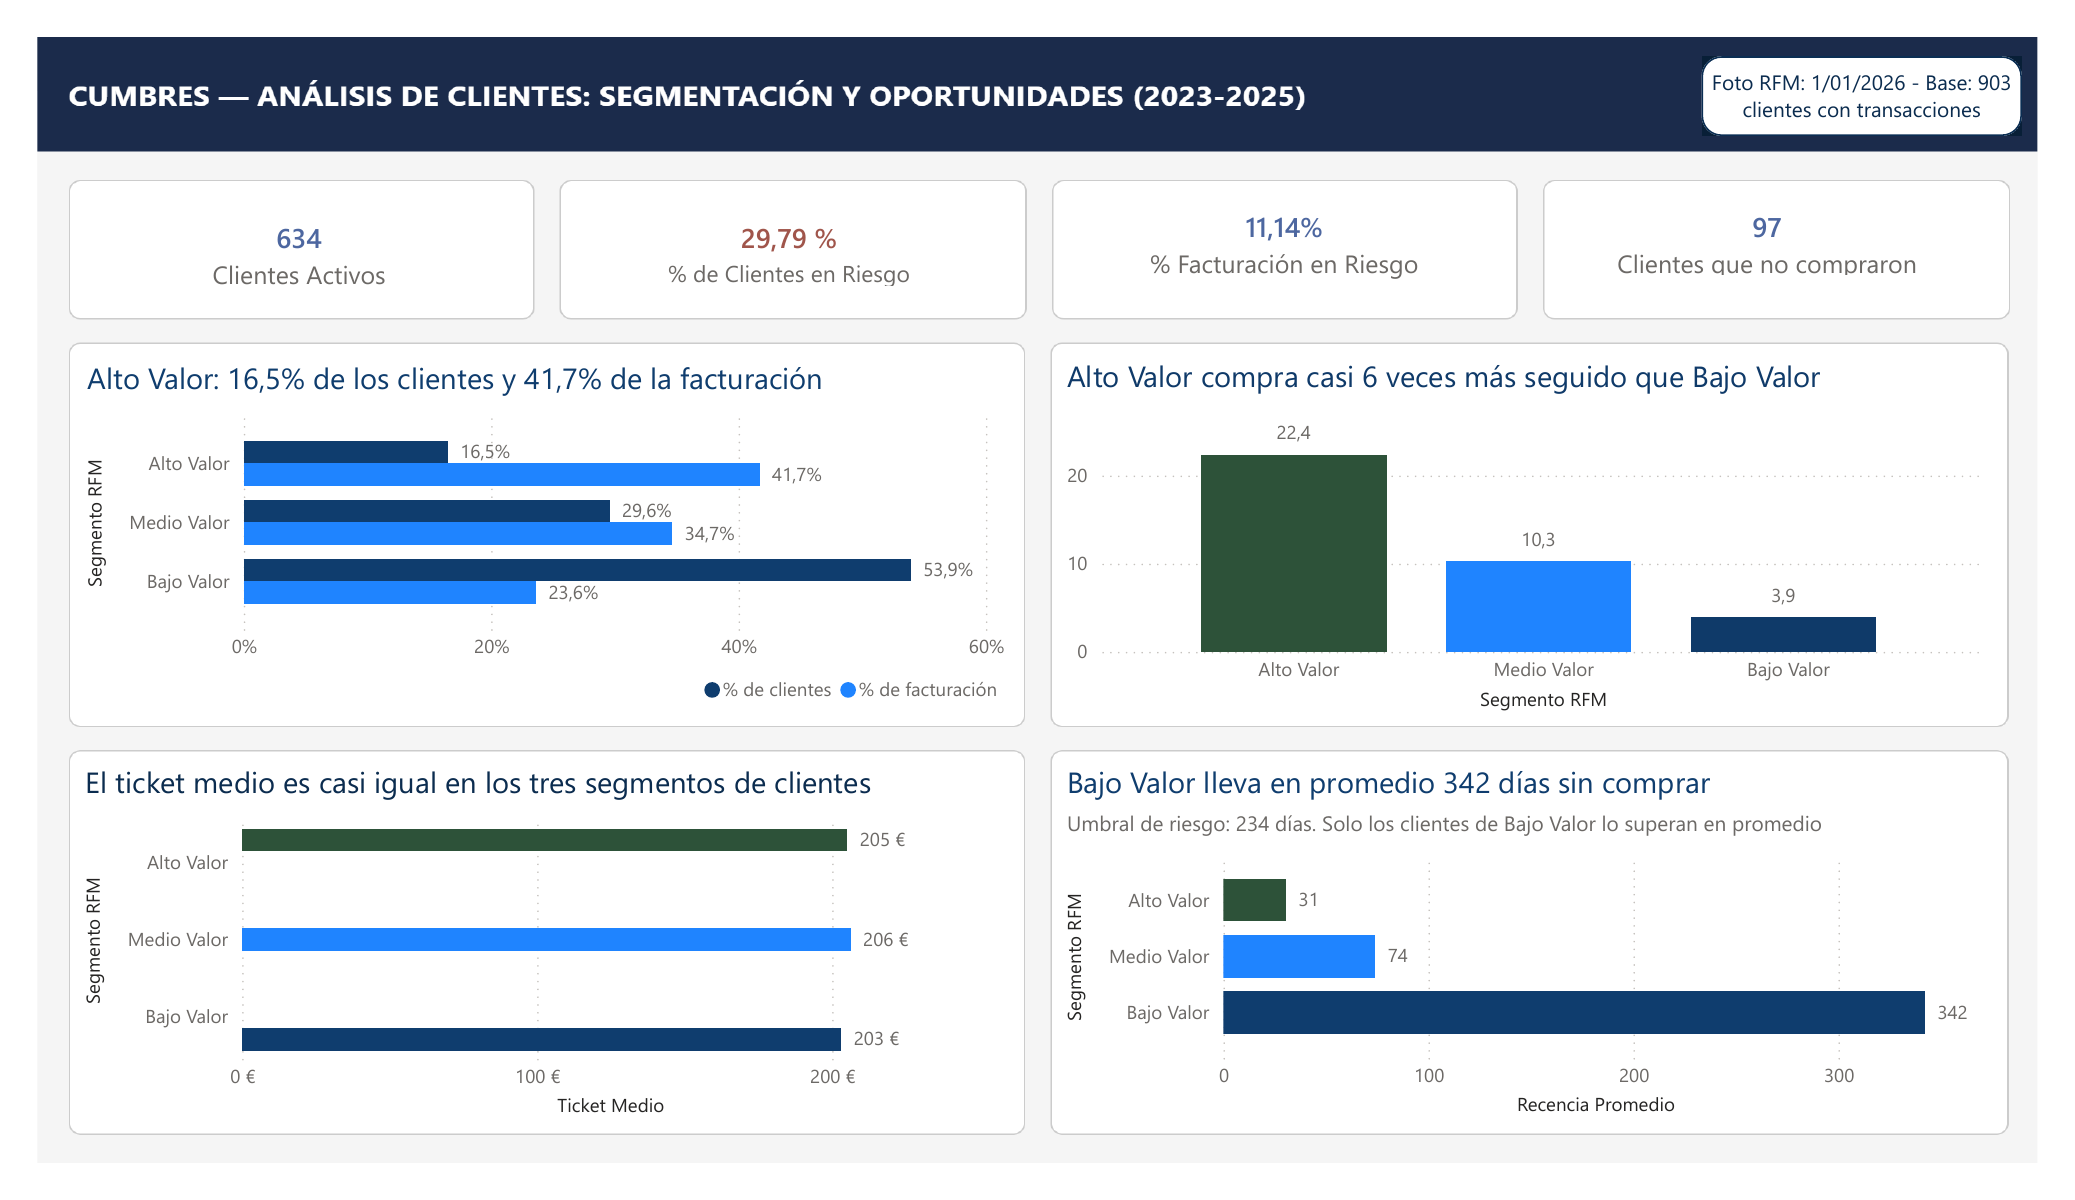
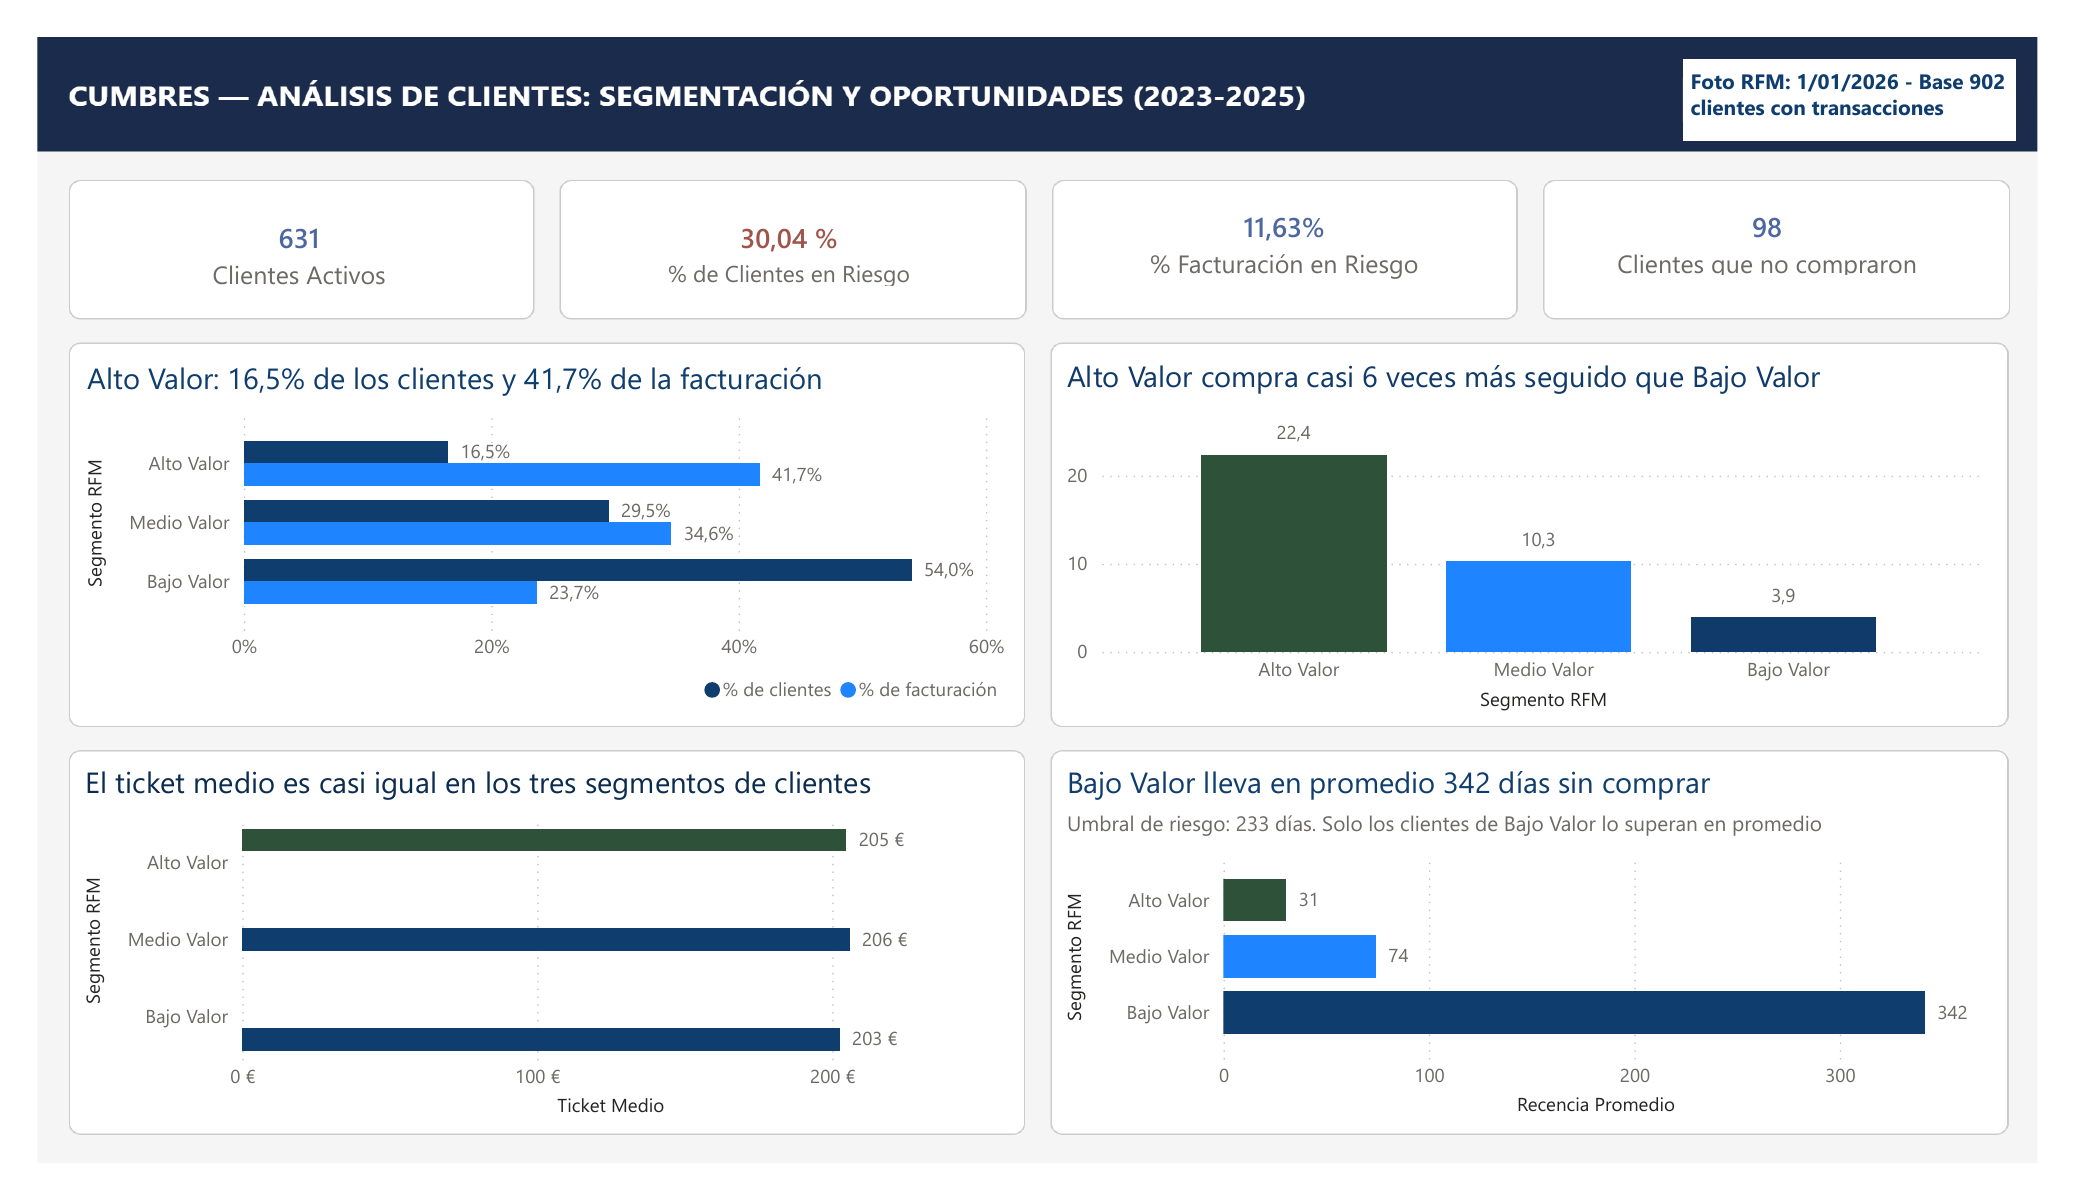
Actualiza la tarjeta de Cumbres con las cifras corregidas

diff --git a/index.html b/index.html
@@ -109,7 +109,7 @@
               <h3>Customer Analytics · Cumbres Outdoor &amp; Deportes</h3>
               <p>Análisis de clientes de un retailer deportivo ficticio, con datos sintéticos que simulan los registros de un ERP y un CRM, período <span class="nowrap">2023-2025</span>.</p>
               <p class="question"><span class="question__label">Pregunta de negocio</span>¿Cómo se distribuye el valor de la cartera de clientes y a qué clientes inactivos conviene contactar primero?</p>
-              <p class="finding"><span class="finding__label">Hallazgo clave</span>81 de los 269 clientes en riesgo concentran el 62,7% de la facturación histórica en riesgo.</p>
+              <p class="finding"><span class="finding__label">Hallazgo clave</span>81 de los 271 clientes en riesgo concentran el 62,9% de la facturación histórica en riesgo.</p>
               <ul class="tags" aria-label="Herramientas">
                 <li>Python</li><li>MySQL</li><li>Power BI</li><li>DAX</li>
               </ul>
